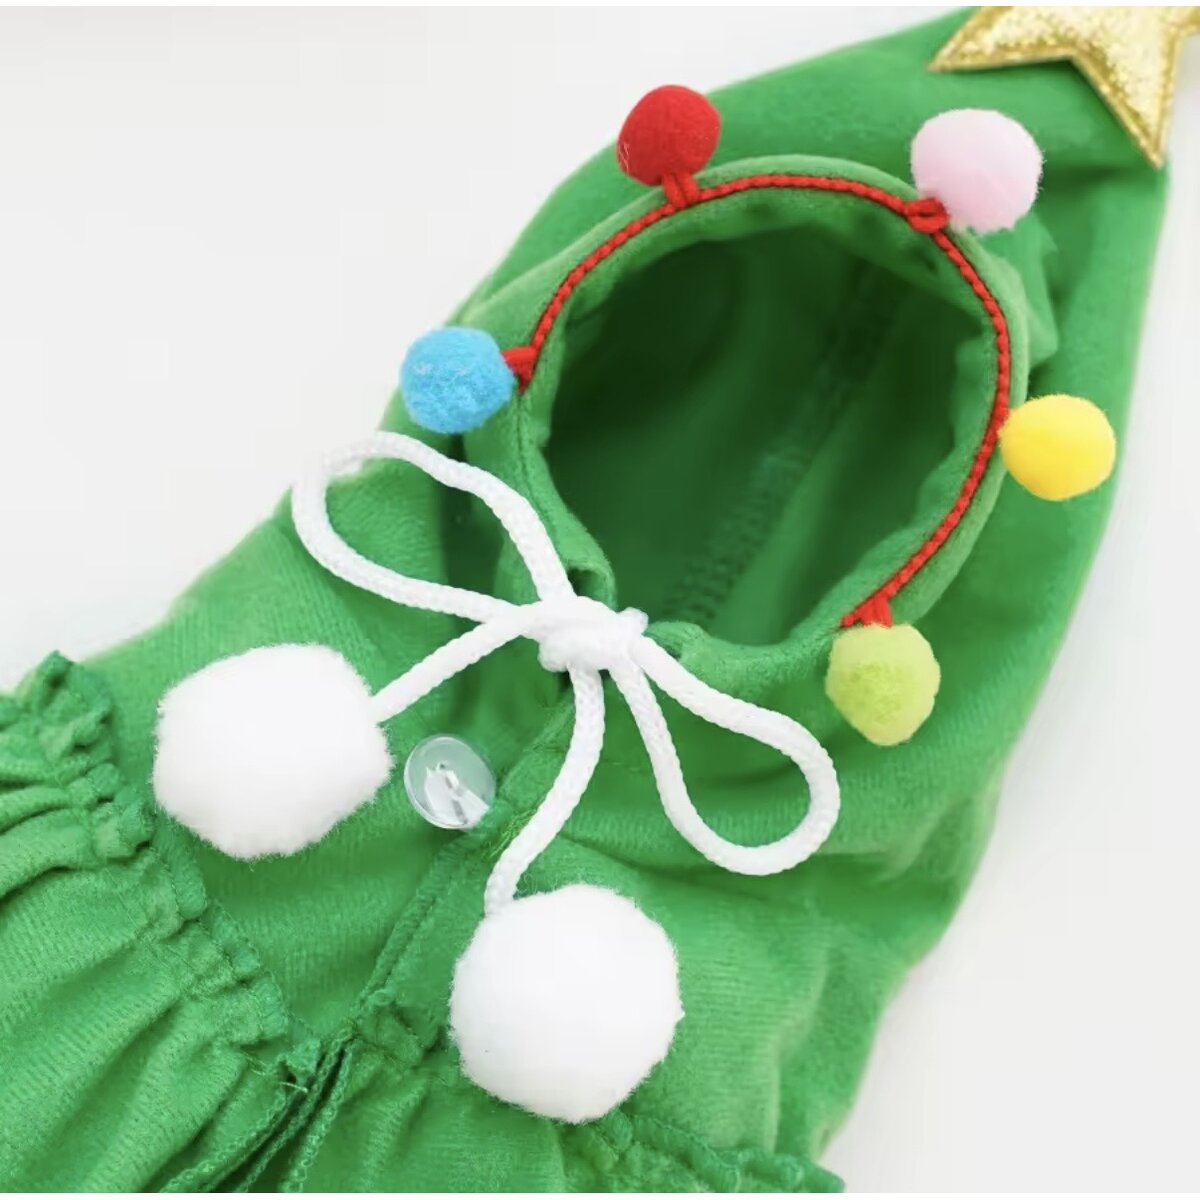
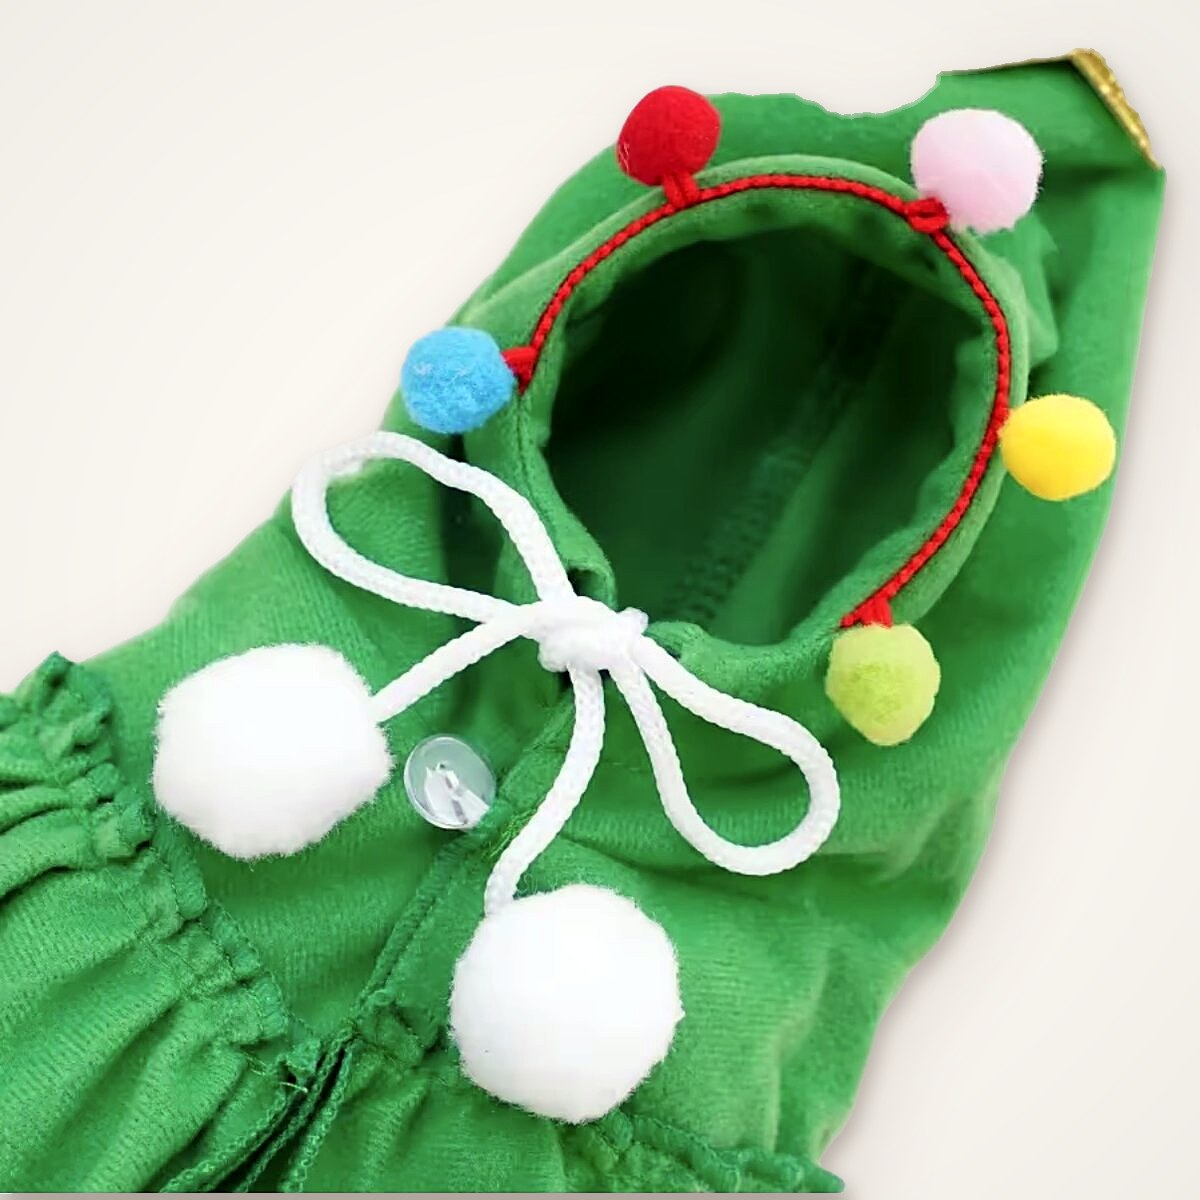
Reshoot the costume photos as one studio set
The five photos were supplier screenshots on mismatched pink and white
backgrounds, with loose pom-pom props scattered round the product. All
five are redone from the originals: cut out locally with BiRefNet-lite,
the props dropped, and set on one warm studio backdrop with shadows that
match how each was shot (a floor sweep for the dog, a surface for the
flat-lays, the supplier's framing for the hood close-up). Product pixels
are untouched apart from levels, a little saturation and sharpening.
Gallery shots are now retina size, and the hero is rebuilt from the same
cut-outs so it matches.

Claude-Session: https://claude.ai/code/session_01B4fWvMd8L3YwU31vJaJqsq

diff --git a/AGENTS.md b/AGENTS.md
@@ -1186,17 +1186,21 @@ The Dog Christmas Tree Costume's five photos
 2026-10-12 as screenshots of a supplier listing, with the instruction to use
 them; the same caveat as the hoodie's applies — ask before treating them as
 cleared for ads. They carry no third-party branding and EXIF was stripped. What
-the page serves is a treatment of them, not the originals: the product was cut
-out with a local background-removal model (rembg, u2net/u2netp, run in a
-sandbox so no photo left the machine; the paid Adobe and Canva removers were
-not available) and set on a generated cream studio backdrop with a soft shadow,
-so all four shots read as one shoot. `hero-both.webp` is the red cut-out and
-the green costume (cut out with rembg's BiRefNet-lite, which keeps the white
-pom-poms that u2net punched through) side by side on a transparent background,
-so the hero shows the colour choice rather than repeating the gallery's first
-photo. The originals, as supplied, are in the history of this
-directory. Nothing about the product was generated or altered: it is the real
-costume on a plain background. Its copy was written here.
+the page serves is a treatment of them, not the originals. On 2026-10-16 all
+five were redone from the originals in one pass (ca96a07 has them as supplied):
+cut out locally with rembg's BiRefNet-lite (run in the sandbox, so no photo
+left the machine; it keeps the white pom-poms that u2net punched holes in),
+the loose pom-pom props the supplier scattered round the product dropped, and
+each set on the same generated warm studio backdrop. The dog shot stands on a
+floor sweep with a contact shadow; the three flat-lays lie on a surface with a
+top-light shadow; the hood close-up keeps the supplier's framing. The product
+pixels are the supplier's, with levels, +7% saturation and light sharpening
+only. Gallery shots are 1540x1379 (the gallery's 1100:985 frame at retina
+size), the grid shots 1400 square. `hero-both.webp` is the red dog and the
+green costume from the same cut-outs, side by side on a transparent
+background, so the hero shows the colour choice rather than repeating the
+gallery's first photo. Nothing about the product was generated or altered: it
+is the real costume on a plain background. Its copy was written here.
 
 Don't add further third-party branding, photography, or marketing text without
 the owner confirming rights for that specific source.
